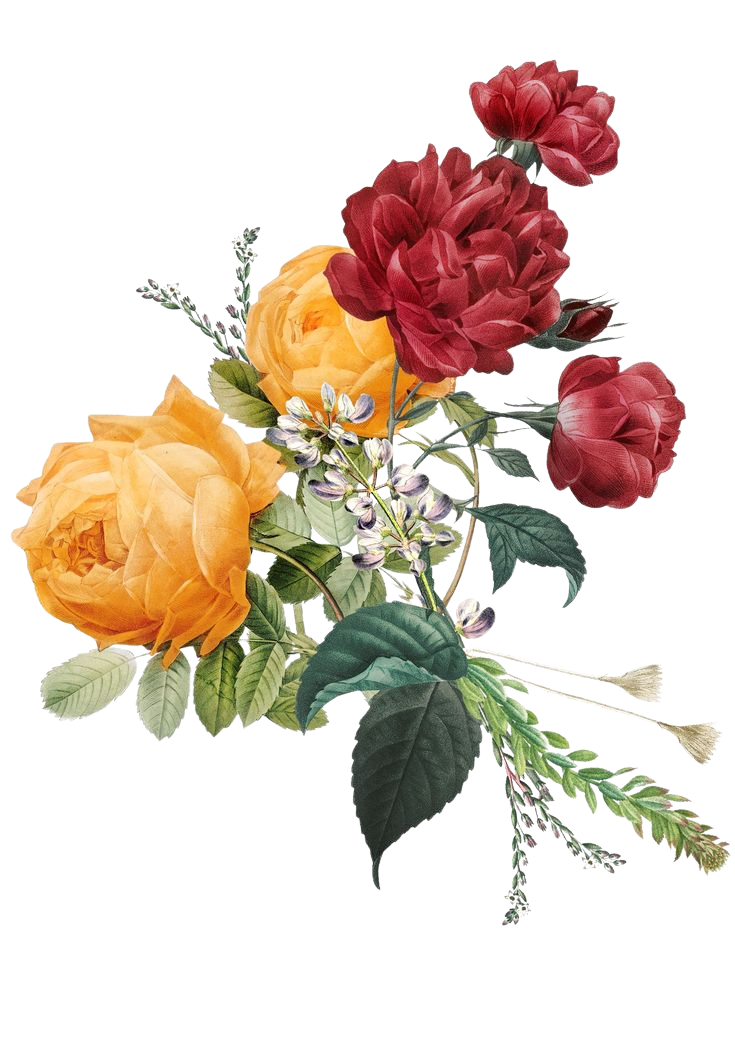
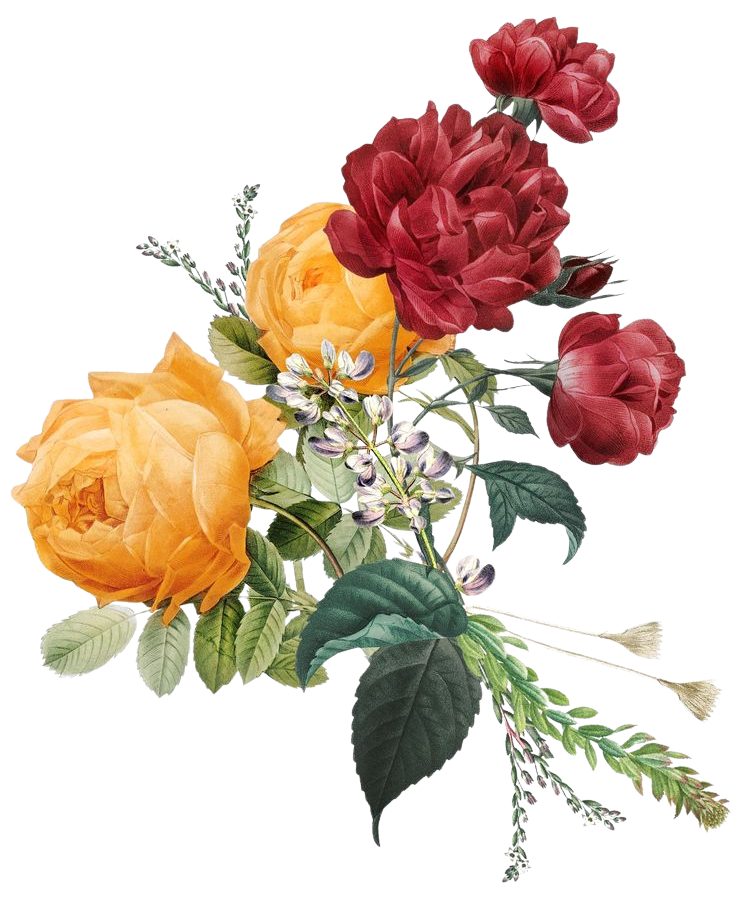
moved down envelope

diff --git a/index.html b/index.html
@@ -20,7 +20,7 @@
     <link rel="preconnect" href="https://fonts.googleapis.com">
     <link rel="preconnect" href="https://fonts.gstatic.com" crossorigin>
     <link href="https://fonts.googleapis.com/css2?family=Fraunces:ital,opsz,wght@0,9..144,300..700;1,9..144,300..700&family=Cormorant+Garamond:ital,wght@0,300;0,400;0,500;0,600;0,700;1,400;1,500;1,600&family=Jost:wght@400;500&display=swap" rel="stylesheet">
-    <link rel="stylesheet" href="style.css?v=25">
+    <link rel="stylesheet" href="style.css?v=26">
 
     <!-- Text is injected from content.js, so with JS off there is nothing to
          show. Hide the envelope and explain, rather than sit on a dead page. -->

diff --git a/style.css b/style.css
@@ -147,11 +147,12 @@ a { color: inherit; }
 
 /* On phones the group has less room to begin with, so the same upward push
    that suits larger screens eats into the letter's rise headroom above the
-   envelope. Even top/bottom padding here brings the whole group down a bit. */
+   envelope. A touch more top padding than bottom here brings the whole
+   group down a bit instead. */
 @media (max-width: 699px) {
     #envelope-screen {
         gap: var(--space-md);
-        padding: var(--space-md) var(--gutter);
+        padding: calc(var(--space-md) + var(--space-sm)) var(--gutter) var(--space-md);
     }
 }
 
